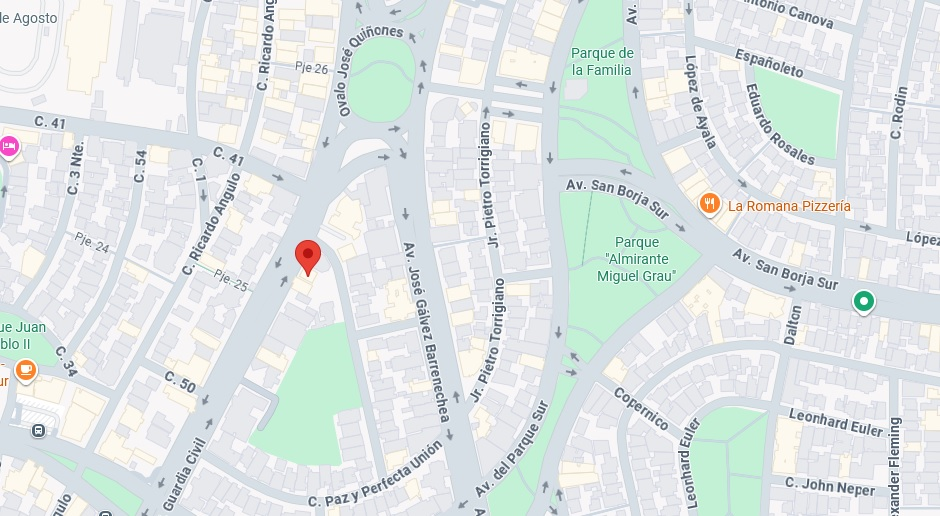
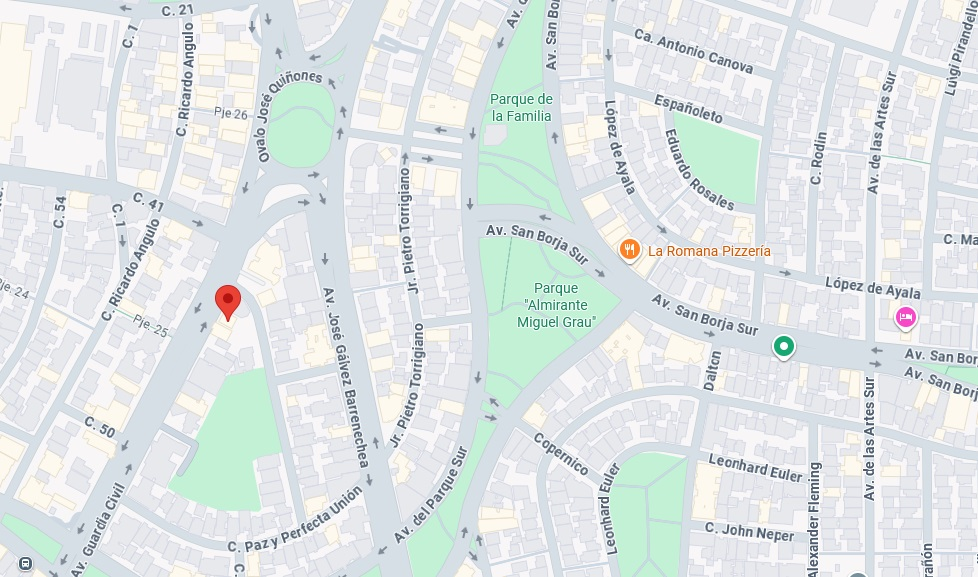
Add files via upload

diff --git a/stylesnew.css b/stylesnew.css
@@ -152,13 +152,7 @@ blockquote.q footer{border:0;padding:0;text-align:left;font-size:.82rem}
 .yape div{color:var(--muted);font-size:.85rem}
 .pcard .note{color:var(--muted);font-size:.8rem;margin-top:14px}
 
-.map{display:block;position:relative;min-height:300px;border:1px solid var(--line);border-radius:32px;overflow:hidden;background:var(--icon)}
-.map svg{display:block;width:100%;height:100%;min-height:300px;stroke:none}
-.map .btn{position:absolute;left:18px;bottom:18px}
-dl.hrs{display:grid;grid-template-columns:auto 1fr;gap:6px 18px;margin:0;font-size:.92rem}
-dl.hrs dt{font-weight:500}dl.hrs dd{margin:0;color:var(--muted)}
-.soc{display:flex;flex-wrap:wrap;gap:10px}
-.soc a{border:1px solid var(--line);border-radius:999px;padding:7px 16px;font-size:.88rem;font-weight:500}
-.soc a:hover{background:var(--mint)}
+.map{display:block;position:relative;min-height:300px;border:0px solid var(--line);border-radius:32px;overflow:hidden;}
+
 
 @media(max-width:900px){.pay-grid,.loc-grid{grid-template-columns:1fr}.sec{padding-top:70px}}
